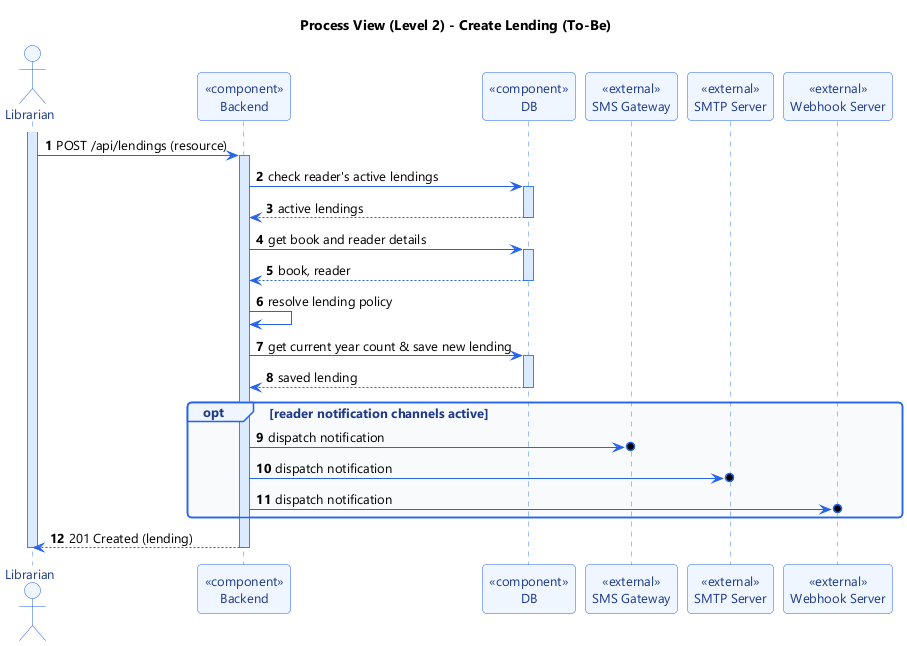
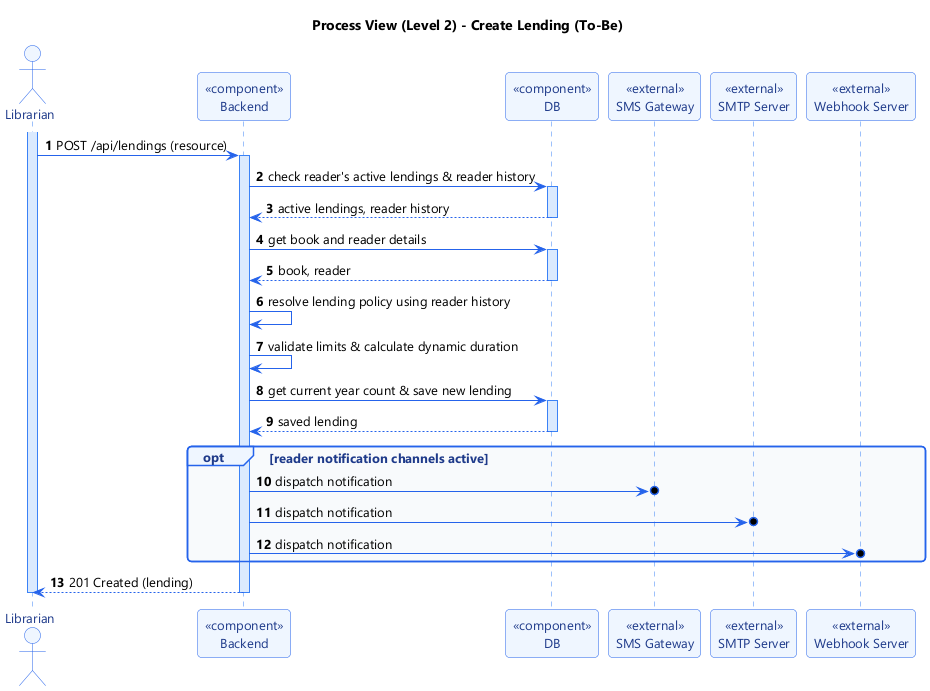
docs(arqsoft): improvements to process views

diff --git a/Docs/ARQSOFT/system-to-be/design-alternatives-and-rationale.md b/Docs/ARQSOFT/system-to-be/design-alternatives-and-rationale.md
@@ -195,7 +195,7 @@ No rigor do método ADD, distingue-se explicitamente duas fases da garantia de q
 
 ## 5. Catálogo de Modelos Visuais de Arquitetura (System-to-Be)
 
-Esta secção apresenta a **relação dos 24 modelos visuais do *System-to-Be***, atualizados com as novas decisões arquiteturais de extensibilidade, configurabilidade e testabilidade decorrentes do método ADD.
+Esta secção apresenta a **relação dos 27 modelos visuais do *System-to-Be***, atualizados com as novas decisões arquiteturais de extensibilidade, configurabilidade e testabilidade decorrentes do método ADD.
 
 Os diagramas encontram-se estruturados nas respetivas subpastas de `Docs/ARQSOFT/system-to-be/`:
 * `Vista Arquitetural/` (4 diagramas)
@@ -203,29 +203,25 @@ Os diagramas encontram-se estruturados nas respetivas subpastas de `Docs/ARQSOFT
 * `Vista Implementação/` (4 diagramas)
 * `Manifestação/` (2 diagramas)
 * `Vista Fisica/` (2 diagramas)
-* `Vista Processos/` (9 diagramas de sequência: 3 cenários evoluídos $\times$ 3 níveis)
+* `Vista Processos/` (12 diagramas de sequência: 4 cenários evoluídos $\times$ 3 níveis)
 
 ---
 
 ### 5.1. Vista Arquitetural (VA)
 
 #### 5.1.1. Nível 1 — Sistema Global
-* **Objetivo:** Representar o LMS como sistema único no seu contexto operacional, identificando os atores e as novas interfaces externas introduzidas.
+* **Objetivo:** Representar o LMS como sistema único no seu contexto operacional (Diagrama de Componentes UML), especificando as interfaces públicas na fronteira do sistema.
 * **Alterações no System-to-Be:** Expansão das fronteiras do sistema. Para além da `REST API` e da `NINJA API`, são incluídas as interfaces externas requeridas com a **Google Books API**, **Open Library API**, **Servidores SMTP**, **Gateways SMS** e **Endpoints HTTP Webhook**.
 
 ![VA_N1.png](Vista%20Arquitetural/VA_N1.png)
-
-> *Elementos a representar:* Componente central `<<component>> <<C4System>> LMS`, com a porta fornecida no topo `REST API` e as portas requeridas (*sockets*) no topo: `NINJA API`, `Google Books API`, `Open Library API`, `SMTP API` (Email), `SMS API`, `Webhook API`. (Diagrama de Componentes UML sem nós físicos ou atores, consistente com `VA_N1.png`).
 
 ---
 
 #### 5.1.2. Nível 2 — Decomposição em Subsistemas
 * **Objetivo:** Representar os contentores de alto nível que compõem o LMS e as suas portas de ligação.
-* **Alterações no System-to-Be:** O container `Backend` assume a responsabilidade de gerir as novas portas de integração bibliográfica externa e os canais de despacho de notificações, mantendo a ligação relacional à base de dados `DB` (H2 Database) através da interface `BD API`.
+* **Alterações no System-to-Be:** O container `Backend` assume a responsabilidade de gerir as novas portas de integração bibliográfica externa e os canais de despacho de notificações, mantendo a ligação relacional à base de dados `DB` (H2 Database) através da interface `DB API`.
 
 ![VA_N2.png](Vista%20Arquitetural/VA_N2.png)
-
-> *Elementos a representar:* Componente fronteira `<<component>> <<C4System>> LMS` contendo internamente `<<component>> Backend` e `<<component>> DB` ligados pela interface `BD API` (`Backend` consome, `DB` fornece). Na fronteira do `LMS`, a porta de entrada `REST API` e as portas requeridas de saída (`NINJA API`, `Google Books API`, `Open Library API`, `SMTP API`, `SMS API`, `Webhook API`) delegam diretamente para o `Backend`.
 
 ---
 
@@ -239,21 +235,17 @@ Os diagramas encontram-se estruturados nas respetivas subpastas de `Docs/ARQSOFT
 
 ![VA_N3.png](Vista%20Arquitetural/VA_N3.png)
 
-> *Elementos a representar:* Componente fronteira `<<component>> Backend` contendo os 6 módulos DDD (`UserManagement`, `ReaderManagement`, `GenreManagement`, `BookManagement`, `AuthorManagement`, `LendingManagement`). Na fronteira do `Backend`: porta de entrada `REST API` (incluindo as rotas `/api/admin/lending-policies`), porta de persistência `DB API` no fundo, e portas de saída no topo: `Google Books API` e `Open Library API` ligadas ao `BookManagement`; `NINJA API`, `SMTP API`, `SMS API` e `Webhook API` ligadas ao `ReaderManagement`. Comunicação inter-módulos: interfaces existentes (*ball-and-socket*) e o novo canal desacoplado por eventos (`Lending Domain Events` / `Notification Event API`) entre `LendingManagement` (publisher) e `ReaderManagement` (listener).
-
 ---
 
 #### 5.1.4. Nível 4 — Estrutura Interna dos Módulos Refinados (Clean Architecture)
 * **Objetivo:** Ilustrar a organização concêntrica interna dos módulos de subdomínio refinados segundo o padrão Clean Architecture / Portas e Adaptadores.
 * **Alterações no System-to-Be:** Evidencia as 4 camadas concêntricas aplicadas aos módulos refinados (`bookmanagement`, `lendingmanagement`, `readermanagement`):
-  * *Camada 1 (Enterprise Business Rules):* Entidades puras (`Book`, `Lending`, `ReaderDetails`) e estratégias de política (`StandardLendingPolicy`, `LongTermLendingPolicy`, `ShortTermLendingPolicy`, `PremiumReaderLendingPolicy`, `DynamicLendingPolicy`);
+  * *Camada 1 (Enterprise Business Rules):* Entidades puras (`Book`, `Lending`, `ReaderDetails`) e estratégias de política (`StandardLendingPolicy`, `AdaptiveLendingPolicy`, `LongTermLendingPolicy`, `ShortTermLendingPolicy`, `PremiumReaderLendingPolicy`, `DynamicLendingPolicy`);
   * *Camada 2 (Application Business Rules):* Serviços (`BookServiceImpl`, `LendingServiceImpl`), DTOs canónicos (`BookDetailsDTO`) e contratos abstratos de saída (`BookInfoProvider`, `NotificationSender`, `LendingPolicyResolver`);
   * *Camada 3 (Interface Adapters):* REST Controllers (`BookController`, `LendingPolicyAdminController`), adaptadores HTTP (`GoogleBooksAdapter`, `OpenLibraryAdapter`), despachadores (`CompositeBookInfoProvider`, `CompositeNotificationSender`), senders (`Email`, `SMS`, `Webhook`) e repositórios JPA;
   * *Camada 4 (Frameworks & Drivers):* Spring Boot, Spring Web, Spring Data JPA, H2, Spring Events, WebClient.
 
 ![VA_N4.png](Vista%20Arquitetural/VA_N4.png)
-
-> *Elementos a representar:* Componente fronteira `<<component>> Module i` (organização em camadas verticais empilhadas consistente com `VA_N4.png` e com a grelha da professora): (1) Topo: `Frameworks & Drivers` conectado a `REST API` e à porta externa requerida, consumindo `Adapters API`; (2) `Interface Adapters` fornecendo `Adapters API` e consumindo `Services API`; (3) `Enterprise Application Rules` fornecendo `Services API` e consumindo `EBR API`; (4) Base: `Enterprise Business Rules` fornecendo `EBR API`. No fundo do módulo: ligação à porta `DB API`. Setas de dependência tracejadas `..>` estritamente de cima para baixo (*The Dependency Rule*).
 
 ---
 
@@ -265,17 +257,13 @@ Os diagramas encontram-se estruturados nas respetivas subpastas de `Docs/ARQSOFT
 
 ![VL-N1.png](Vista%20Lógica/VL-N1.png)
 
-> *Elementos a representar:* Fronteira lógica do LMS, fluxos de informação de utilizadores e interações com serviços externos.
-
 ---
 
 #### 5.2.2. Nível 2 — Subsistemas Lógicos
-* **Objetivo:** Representar a divisão lógica entre a aplicação de serviços de negócio (Backend) e a persistência relacional (DB).
+* **Objetivo:** Representar o contentor lógico Backend no interior do LMS e a ligação à persistência através da interface DB API na fronteira do sistema.
 * **Alterações no System-to-Be:** Integração das portas lógicas de comunicação externa no Backend.
 
 ![VL-N2.png](Vista%20Lógica/VL-N2.png)
-
-> *Elementos a representar:* Decomposição lógica em Backend e DB, especificando interfaces lógicas de entrada e saída.
 
 ---
 
@@ -284,8 +272,6 @@ Os diagramas encontram-se estruturados nas respetivas subpastas de `Docs/ARQSOFT
 * **Alterações no System-to-Be:** O subdomínio de empréstimos emite eventos de ciclo de vida que são transmitidos logicamente ao subdomínio de leitores para acionamento das notificações, eliminando o acoplamento direto entre eles.
 
 ![VL-N3.png](Vista%20Lógica/VL-N3.png)
-
-> *Elementos a representar:* Subdomínios lógicos, portas lógicas e barramento de eventos aplicacionais.
 
 ---
 
@@ -297,17 +283,13 @@ Os diagramas encontram-se estruturados nas respetivas subpastas de `Docs/ARQSOFT
 
 ![VI_N1.png](Vista%20Implementação/VI_N1.png)
 
-> *Elementos a representar:* Componente de implementação `<<component>> <<C4System>> LMS` (consistente com `VI_N1.png`), com a porta física de entrada `REST API` e as portas físicas de saída (*sockets*): `NINJA API`, `Google Books API`, `Open Library API`, `SMTP API` (Email), `SMS API`, `Webhook API`.
-
 ---
 
 #### 5.3.2. Nível 2 — Subsistemas de Implementação
 * **Objetivo:** Evidenciar a divisão entre a base de código da aplicação e a base de dados relacional H2.
-* **Alterações no System-to-Be:** O subsistema `Backend` assume a receção das novas portas de saída de rede para integração de dados bibliográficos e canais de notificação, preservando a ligação relacional ao subsistema `DB` via `BD API`.
+* **Alterações no System-to-Be:** O subsistema `Backend` assume a receção das novas portas de saída de rede para integração de dados bibliográficos e canais de notificação, preservando a ligação relacional ao subsistema `DB` via `DB API`.
 
 ![VI_N2.png](Vista%20Implementação/VI_N2.png)
-
-> *Elementos a representar:* Componente fronteira `<<component>> <<C4System>> LMS` contendo `<<component>> Backend` e `<<component>> DB` ligados por `BD API` (consistente com `VI_N2.png`). Delegação das portas externas da fronteira física do `LMS` para o `Backend`: `REST API` (entrada) e `NINJA API`, `Google Books API`, `Open Library API`, `SMTP API`, `SMS API`, `Webhook API` (saídas).
 
 ---
 
@@ -318,25 +300,22 @@ Os diagramas encontram-se estruturados nas respetivas subpastas de `Docs/ARQSOFT
   * Pacote `lendingmanagement`: inclusão de `events` e `policies`;
   * Pacote `readermanagement`: inclusão de `infrastructure.notifications`;
   * Pacote `configuration`: classes `BibliographicConfig`, `NotificationConfig` e `LendingPolicyProperties`;
-  * Pacote `Persistência`: infraestrutura técnica Spring Data JPA / Hibernate partilhada.
+  * Pacote `auth`: segurança e tokens JWT associado a `usermanagement`;
+  * Pacote `Persistência`: infraestrutura técnica Spring Data JPA / Hibernate partilhada
 
 ![VI_N3.png](Vista%20Implementação/VI_N3.png)
-
-> *Elementos a representar:* Componente fronteira `<<component>> Backend` contendo os 6 pacotes de subdomínio (`UserManagement Package`, `ReaderManagement Package`, `GenreManagement Package`, `BookManagement Package`, `AuthorManagement Package`, `LendingManagement Package`), o novo `<<component>> Configuration Package` (com `BibliographicConfig`, `NotificationConfig`, `LendingPolicyProperties`) e o componente técnico `<<component>> Persistence` (fornecendo `Persistence API` a todos os pacotes e conectando à porta `DB API` no fundo). No topo do `Backend`: portas de saída ligadas a `BookManagement` (`Google Books API`, `Open Library API`) e a `ReaderManagement` (`NINJA API`, `SMTP API`, `SMS API`, `Webhook API`). (Consistente com `VI_N3.png`).
 
 ---
 
 #### 5.3.4. Nível 4 — Decomposição Física em Camadas e Componentes Técnicos (Clean Architecture)
-* **Objetivo:** Descrever a estrutura interna de implementação de um módulo refinado, evidenciando os pacotes das camadas concêntricas e a introdução dos novos componentes técnicos de gateways e clientes HTTP (consistente com `VI_N4.png` e o canto inferior direito do PDF da professora).
-* **Alterações no System-to-Be:** Dentro do componente `<<component>> Module i`, as 4 camadas de pacotes integram:
+* **Objetivo:** Descrever a estrutura interna de implementação em 4 camadas Clean Architecture do módulo representativo `BookManagement` (consistente com `VI_N4.png`), evidenciando a coluna de integração externa com gateways e cliente HTTP.
+* **Alterações no System-to-Be:** Dentro do componente `BookManagement` (instanciação representativa do padrão, aplicável analogamente a `LendingManagement` com policies e a `ReaderManagement` com notificações), as 4 camadas integram:
   * **`Frameworks & Drivers Layer` (Topo):** `<<component>> HTTP REST Routers` (porta `REST API`), `<<component>> Drivers DB` (porta `Persistence API`), e o novo **`<<component>> HTTP Client`** (WebClient/JavaMail, ligado à porta externa de saída e requerendo `HTTP Client API`);
   * **`Interface Adapters Layer`:** `<<component>> Controllers` (fornece `Controllers API`, requer `Services API`), `<<component>> Repositories` (fornece `Drivers API`, dependência tracejada para `Model`), e o novo **`<<component>> Gateways`** (adaptadores bibliográficos ou de notificação, fornece `HTTP Client API` e conecta com `Services`);
   * **`Application Services Layer`:** `<<component>> Services` (fornece `Services API`, requer `Model API` / `Policies API`);
   * **`Enterprise Business Rules Layer` (Base):** `<<component>> Model` (fornece `Model API`) e **`<<component>> Policies`** (no caso do `LendingManagement`, fornece `Policies API` encapsulando as classes `LendingPolicy`, `StandardLendingPolicy`, `LongTermLendingPolicy`, `ShortTermLendingPolicy`, `PremiumReaderLendingPolicy`, `DynamicLendingPolicy`).
 
 ![VI_N4.png](Vista%20Implementação/VI_N4.png)
-
-> *Elementos a representar:* Os 4 pacotes de camada concêntrica e os blocos internos com destaque para a nova coluna de integração à direita: `<<component>> HTTP Client` (na camada Frameworks) ligado via `HTTP Client API` a `<<component>> Gateways` (na camada Interface Adapters), refletindo fielmente a grelha de vistas da professora.
 
 ---
 
@@ -377,7 +356,7 @@ A Vista Física (ou de Implantação) descreve a topologia de nós computacionai
   * **`Client Workstation` (Estação de Trabalho do Cliente):**
     * Representa o nó computacional dos utilizadores do sistema (leitores, bibliotecários, administradores);
     * Aloja o componente `Web Browser` (ou ferramentas de API client como o Postman);
-    * Comunica diretamente com o nó servidor através do canal `HTTP/REST:8080`.
+    * Comunica diretamente com o nó servidor através do canal `HTTP/REST:8080` (porta canónica de arquitetura, configurável para `8085` via ficheiro `.env` local em máquinas com Jenkins ativo).
   * **`Server (localhost)` (Nó Computacional Central):**
     * **`JVM 17`:** Processo de máquina virtual Java que executa a aplicação Spring Boot (`Backend`), escutando requisições REST na porta HTTP `8080`.
     * **`H2 DBMS`:** Processo/subsistema de gestão de base de dados relacional alojando o componente `H2 Database`, acedido pelo `Backend` através do protocolo `JDBC`.
@@ -400,7 +379,7 @@ A Vista Física (ou de Implantação) descreve a topologia de nós computacionai
 
 ### 5.6. Vista de Processos (VP)
 
-A Vista de Processos ilustra a realização dinâmica das operações do sistema através de diagramas de sequência para os três cenários de negócio que sofrem evolução arquitetural no *System-to-Be* (Criação de Empréstimos, Registo de Livros e Devolução de Empréstimos), em três níveis de abstração cada (N1, N2 e N3), totalizando 9 modelos visuais.
+A Vista de Processos ilustra a realização dinâmica das operações do sistema através de diagramas de sequência para os quatro cenários de negócio que sofrem evolução arquitetural no *System-to-Be* (Criação de Empréstimos, Registo de Livros, Devolução de Empréstimos e Renovação de Empréstimos com Reavaliação de Política), em três níveis de abstração cada (N1, N2 e N3), totalizando 12 modelos visuais.
 
 ---
 
@@ -410,11 +389,11 @@ A Vista de Processos ilustra a realização dinâmica das operações do sistema
   2. `LendingController` delega a execução no método `create(resource)` de `LendingServiceImpl`;
   3. O serviço pesquisa os empréstimos ativos/pendentes do leitor em `LendingRepository` (`listOutstandingByReaderNumber`) e valida as pré-condições base (verificação de dias de atraso nulos e cumprimento do limite base de requisições em aberto);
   4. Obtém os detalhes da obra literária via `BookRepository.findByIsbn` e do leitor via `ReaderRepository.findByReaderNumber`;
-  5. Invoca em tempo de execução o intermediário `LendingPolicyResolver` (`resolvePolicy`) para selecionar deterministicamente a política de maior prioridade aplicável (`LongTermLendingPolicy`, `StandardLendingPolicy`, `ShortTermLendingPolicy`, `PremiumReaderLendingPolicy` ou `DynamicLendingPolicy`) em função do volume de empréstimos ativos e perfil do leitor;
-  6. A política selecionada valida a elegibilidade da operação (`validateCanLend`) e fornece os parâmetros dinâmicos calculados de duração e taxa diária de multa (`getPolicyParameters`);
+  5. Invoca em tempo de execução o intermediário `LendingPolicyResolver` (`resolvePolicy(reader, book, outstandingLendings, readerHistory)`) para selecionar deterministicamente a política aplicável (`AdaptiveLendingPolicy` ou `StandardLendingPolicy`) avaliando o rácio de cumprimento histórico do leitor (§4 da especificação de políticas);
+  6. A política selecionada valida a elegibilidade da operação (`policy.validateCanLend`), calcula a duração dinâmica em dias (`policy.getLendingDurationInDays(outstandingLendings)`) e a taxa de multa diária (`policy.getFineValuePerDayInCents()`);
   7. É obtido o contador sequencial do ano corrente via `LendingRepository.getCountFromCurrentYear`, instanciada a entidade `lending:Lending` e persistida no `LendingRepository`;
   8. O serviço instancia o evento de domínio imutável `LendingCreatedEvent` e publica-o através do barramento de eventos `ApplicationEventPublisher`;
-  9. O ouvinte assíncrono pós-commit `LendingNotificationListener` (`onLendingCreated`) interseta o evento e delega na porta `NotificationSender` (`CompositeNotificationSender`), que despacha a notificação para os canais ativados (`EmailNotificationSender`, `SmsNotificationSender`, `WebhookNotificationSender`) sob proteção individual de exceções (`try/catch`), garantindo que falhas de conectividade externa nunca afetam a transação de persistência (`ASR06`);
+  9. O ouvinte assíncrono pós-commit `LendingNotificationListener` (`onLendingCreated`) interseta o evento, obtém os dados do leitor via `ReaderRepository`, constrói o `NotificationRequest` e delega na porta `NotificationSender` (`CompositeNotificationSender`), que despacha a notificação para os canais ativados (`EmailNotificationSender`, `SmsNotificationSender`, `WebhookNotificationSender`) sob proteção individual de exceções (`try/catch`), garantindo que falhas de conectividade externa nunca afetam a transação de persistência (`ASR06`);
   10. O controlador retorna a resposta `201 Created` com a representação do empréstimo persistido.
 
 * **Nível 1:**  
@@ -470,6 +449,32 @@ A Vista de Processos ilustra a realização dinâmica das operações do sistema
 
 * **Nível 3:**  
   ![VP_N3_ReturnLending.png](Vista%20Processos/png/VP_N3_ReturnLending.png)
+
+---
+
+#### 5.6.4. Cenário 4: Renovação de Empréstimo com Reavaliação Dinâmica de Política em Runtime (*Renew Lending*)
+* **Descrição do Cenário no System-to-Be:**
+  1. O Leitor (`Reader`) submete o pedido de renovação através de `POST /api/lendings/{year}/{seq}/renew` acompanhado do cabeçalho de controlo de versão `If-Match`;
+  2. O controlador compõe o número de negócio (`ln = year + "/" + seq`) e pesquisa o empréstimo existente via `LendingServiceImpl.findByLendingNumber(ln)`;
+  3. A versão pretendida é obtida através de `ConcurrencyService.getVersionFromIfMatchHeader(ifMatch)` e o controlador invoca `LendingServiceImpl.renew(ln, desiredVersion)`;
+  4. O serviço recupera o empréstimo em `LendingRepository` e valida as invariantes de negócio base (empréstimo não devolvido e sem dias em atraso);
+  5. O serviço pesquisa os empréstimos ativos do leitor via `LendingRepository.listOutstandingByReaderNumber` e confirma a inexistência de atrasos;
+  6. O serviço consulta o histórico completo de requisições do leitor via `LendingRepository.listByReaderNumber`;
+  7. **Reavaliação Dinâmica em *Runtime* (§4.3 das Políticas de Empréstimo):** O serviço invoca `LendingPolicyResolver.resolvePolicy(reader, lending.getBook(), activeLendings, readerHistory)` para reavaliar a política aplicável no momento da renovação em função do cumprimento histórico do leitor nos últimos meses;
+  8. A política selecionada valida a elegibilidade da renovação (`policy.validateCanRenew(lending, reader, activeLendings)`), assegurando que o limite de renovações permitidas não foi excedido;
+  9. O serviço obtém o prazo de extensão calculado (`renewalDays = policy.getRenewalPeriodInDays(activeLendings)`) e invoca o método de domínio `lending:Lending.renew(renewalDays, desiredVersion)`, estendendo a data limite de devolução (`limitDate`);
+  10. O empréstimo com os novos prazos e versão atualizada é persistido no `LendingRepository`;
+  11. O controlador retorna `200 OK` acompanhado do ETag atualizado e do recurso renovado.
+
+* **Nível 1:**  
+  ![VP_N1_RenewLending.png](Vista%20Processos/png/VP_N1_RenewLending.png)  
+
+* **Nível 2:**  
+  ![VP_N2_RenewLending.png](Vista%20Processos/png/VP_N2_RenewLending.png)  
+
+* **Nível 3:**  
+  ![VP_N3_RenewLending.png](Vista%20Processos/png/VP_N3_RenewLending.png)
+
 
 ---
 

diff --git a/Docs/ARQSOFT/arqsoft-documentation.md b/Docs/ARQSOFT/arqsoft-documentation.md
@@ -235,7 +235,7 @@ A matriz seguinte assegura a rastreabilidade e consistência bidirecional entre 
 | :--- | :--- | :--- | :--- | :--- | :--- |
 | **1.3.3.1 Fontes Bibliográficas** | ASR01, ASR02, ASR05, ASR06 | Desacoplamento via portas e adaptadores; agregação com fallback; ativação condicional em setup time. | **Adapter**, **Gateway**, **Composite / Chain**, **Canonical DTO** | `BookInfoProvider`, `GoogleBooksAdapter`, `OpenLibraryAdapter`, `CompositeBookInfoProvider`, `BibliographicConfig` | C4 Component (N3) `bookmanagement`; Sequence Diagram Consulta Externa |
 | **1.3.3.2 Notificações a Leitores** | ASR02, ASR03, ASR07 | Publicação orientada a eventos de domínio; despachador multicanal assíncrono; ativação por propriedades. | **Observer / Domain Events**, **Strategy**, **Composite** | `LendingCreatedEvent`, `LendingReturnedEvent`, `NotificationSender`, `CompositeNotificationSender`, `NotificationConfig` | C4 Component (N3) `readermanagement`; Sequence Diagram Despacho Eventos |
-| **1.3.3.3 Políticas de Empréstimo** | ASR02, ASR04, ASR05 | Encapsulamento das políticas oficiais (`StandardLendingPolicy` §2 e `AdaptiveLendingPolicy` §3) e estratégias adicionais; seleção e reavaliação dinâmica em *runtime* por histórico (`LendingPolicyResolver` §4) em cada empréstimo e renovação; propriedades tipadas e validadas no arranque. | **Strategy**, **Policy Resolver / Registry**, **Externalized Config** | `LendingPolicy`, `StandardLendingPolicy`, `AdaptiveLendingPolicy`, `LendingPolicyResolver`, `Lending.renew`, `LendingPolicyProperties`, `LendingPolicyAdminController` | C4 Class (N4) `lendingmanagement`; Diagrama de Classes Políticas |
+| **1.3.3.3 Políticas de Empréstimo** | ASR02, ASR04, ASR05 | Encapsulamento das políticas oficiais (`StandardLendingPolicy` §2 e `AdaptiveLendingPolicy` §3) e estratégias adicionais; seleção e reavaliação dinâmica em *runtime* por histórico (`LendingPolicyResolver` §4) em cada empréstimo e renovação; propriedades tipadas e validadas no arranque. | **Strategy**, **Policy Resolver / Registry**, **Externalized Config** | `LendingPolicy`, `StandardLendingPolicy`, `AdaptiveLendingPolicy`, `LendingPolicyResolver`, `Lending.renew`, `LendingPolicyProperties`, `LendingPolicyAdminController` | C4 Class (N4) `lendingmanagement`; Diagrama de Classes Políticas; Sequence Diagrams Criação e Renovação (VP N1-N3) |
 | **1.3.3.4 Testes Automatizados** | ASR05 | Arquitetura hermética e inversão de controlo para injeção de mocks/stubs em todos os níveis de teste. | **Inversion of Control (IoC)**, **Dependency Injection** | `StandardLendingPolicyTest`, `LendingPolicyResolverTest`, `AdaptiveLendingPolicyTest`, PITest Mutation, `@SpringBootTest`, `LendingPolicyAcceptanceIT`, `BookExternalInfoIT` | Rastreabilidade formal em `architectural-factors.md` e `src/test/java` |
 
 ### 6.2 Contrato e Matriz de Interdependência entre Módulos
